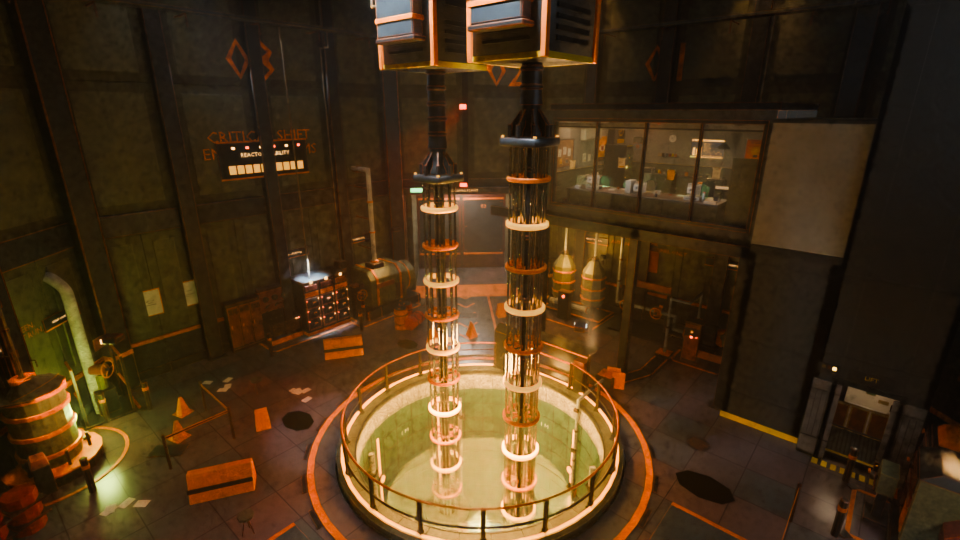
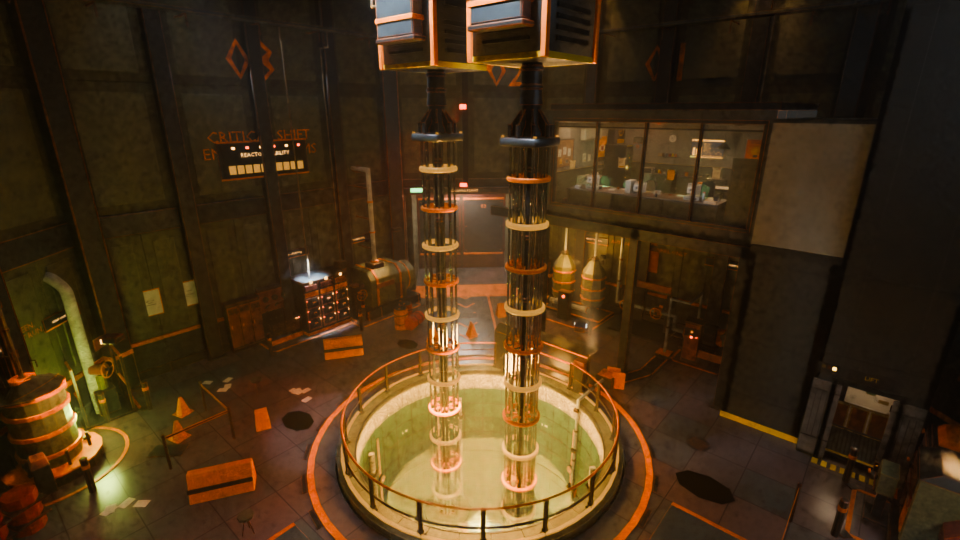
Symmetrical rod banks, all hall drivers in seconds, curved depth markers, glow base colour fix
- rp_rods: bank B rest height and keyframes copied from A (both level); readouts say 8.4 M
- rp_seconds: 40 frame-based hall drivers converted; all 225 drivers frame-rate independent
- rp_pool: state-glow base colour 2 %, curved depth-marker decals, lower glow strengths

Claude-Session: https://claude.ai/code/session_01MZn6W3mktoSNAd4EhQyGwJ

diff --git a/sections/reactor-room/production/overhaul-R1/scripts/rp_pool.py b/sections/reactor-room/production/overhaul-R1/scripts/rp_pool.py
@@ -3,7 +3,7 @@ underwater lamps.   usage: python rp_pool.py -- <in.blend> <out.blend>      (run
  * pool_medium (the volume object 'Deep water medium'): absorption cut from 0.075 to 0.028 and shifted to a clear teal-green, scatter cut to 0.006: the old values made 6 m of opaque green.
  * 'RP caustics': a disc on the pool floor, transparent except for a bright net (two layered 4D Voronoi edge patterns), drifting with scene time in SECONDS (driver on the Voronoi W input).
  * depth markers 1 M / 3 M / 5 M below the surface (surface z -0.47) painted on the lining at the four compass points; eight lamps (emissive bosses) on the lining at z -2.4.
-Glow fix (owner: "blown out green"): with AgX a 3.4 / 2.2 emission strength clips to white, so the strengths in the driver expressions of pool_glow (3.4 -> 1.0) and R2 state glow (2.2 -> 0.7) are lowered
+Glow fix (owner: "blown out green"): with AgX a 3.4 / 2.2 emission strength clips to white, so the strengths in the driver expressions of pool_glow (3.4 -> 1.0) and R2 state glow (2.2 -> 0.45) are lowered
 (instability still raises them by up to 60 %), the water absorption is made near-neutral so red and orange glow is not eaten by a green absorber, the in-scatter and the caustics follow the stability
 colour (green -> orange -> red), and the pool lamps use the state-glow material.  Check all three states: stability 1.0 (green), 0.5 (orange), 0.1 (red).
 Everything is static geometry or a seconds-based driver (the original hall glow drivers still use frames); nothing here needs the runtime."""
@@ -37,12 +37,19 @@ for nd in nt.nodes:
         nd.inputs['Density'].default_value=0.006; nd.name="PoolScatter"
         for i,ex in enumerate(("0.35+0.65*min(1,2*(1-s)+0.24)","0.35+0.65*(0.03+0.92*s)","0.35+0.65*(0.20*s)")): crk.drv(nt,'nodes["PoolScatter"].inputs["Color"].default_value',i,ex,var_s=True)
 # glow strengths: lower the base so AgX does not clip to white
-for mn,old,new in (("pool_glow","3.4*","1.0*"),("R2 state glow","2.2*","0.7*")):
+for mn,old,new in (("pool_glow","3.4*","1.0*"),("R2 state glow","2.2*","0.45*")):
     mt=bpy.data.materials[mn]
     for d in mt.node_tree.animation_data.drivers:
         if "Emission Strength" in d.data_path and old in d.driver.expression: d.driver.expression=d.driver.expression.replace(old,new,1)
     for nd in mt.node_tree.nodes:
         if nd.type=='BSDF_PRINCIPLED': nd.inputs['Emission Strength'].default_value*=new and (float(new[:-1])/float(old[:-1]))
+# state-glow base colour: the driven base colour (the full state colour) was lit by the pool's 2.5 kW of area lights and turned the rings and walls it sits on near-white.  Keep the glow in the EMISSION and give the base colour 2 %.
+for mn in ("pool_glow","R2 state glow"):
+    mt=bpy.data.materials[mn]
+    for d in mt.node_tree.animation_data.drivers:
+        if 'Base Color' in d.data_path and not d.driver.expression.startswith("0.02*("): d.driver.expression="0.02*("+d.driver.expression+")"
+    for nd in mt.node_tree.nodes:
+        if nd.type=='BSDF_PRINCIPLED': bc=nd.inputs['Base Color'].default_value; nd.inputs['Base Color'].default_value=(bc[0]*0.02,bc[1]*0.02,bc[2]*0.02,1.0)
 # ---- caustics: transparent disc with a drifting bright net
 m=bpy.data.materials.get("RP caustics")
 if m: bpy.data.materials.remove(m)
@@ -69,10 +76,18 @@ me=bpy.data.meshes.new("RP caustics"); bm.to_mesh(me); bm.free()
 co=bpy.data.objects.new("RP caustics",me); POOLC.objects.link(co); me.materials.append(m)
 # ---- depth markers + lamps on the lining
 M=dict(WHITE=crk.pm("RP depth paint",(0.70,0.70,0.62),0.5,scale=2.0,bump=0.0),LAMP=bpy.data.materials["R2 state glow"],GUN=crk.pm("RP lamp housing",(0.05,0.06,0.06),0.35,metal=0.8,scale=2.0,bump=0.0))
-R=3.36
-for (face,x,y) in (('-x',R,0.0),('+x',-R,0.0),('-y',0.0,R),('+y',0.0,-R)):
-    for zz,body in ((-1.47,"1 M"),(-3.47,"3 M"),(-5.47,"5 M")):
-        crk.text(POOLC,body,x,y,zz,face,0.22,M["WHITE"],'CENTER',"RP pool depth marker")
+import crt,numpy as np
+R=3.365                                                                           # depth markers: white text printed on curved strips that follow the lining (decal, alpha), so they bend with the wall instead of floating flat in front of it
+for body,zz in (("1 M",-1.47),("3 M",-3.47),("5 M",-5.47)):
+    msk=crt.text_mask(body,256,96,78); rgba=np.zeros((96,256,4),np.float32); rgba[...,:3]=(0.80,0.80,0.72); rgba[...,3]=msk
+    mt=crk.decal_mat("RP depth paint "+body,crk.new_image("RP depth tex "+body,rgba),0.6); bm=bmesh.new(); n=10; hw=0.34/R; hh=0.26
+    for th0 in (0.0,math.pi/2,math.pi,3*math.pi/2):
+        rows=[[bm.verts.new((R*math.cos(th0+hw*(1-2*i/n)),R*math.sin(th0+hw*(1-2*i/n)),zz-hh/2+j*hh)) for i in range(n+1)] for j in (0,1)]
+        uvl=bm.loops.layers.uv.verify()
+        for i in range(n):
+            f=bm.faces.new((rows[0][i],rows[0][i+1],rows[1][i+1],rows[1][i])); f.smooth=False
+            for lo,uv in zip(f.loops,((i/n,0),((i+1)/n,0),((i+1)/n,1),(i/n,1))): lo[uvl].uv=uv
+    me=bpy.data.meshes.new("RP depth "+body); bm.to_mesh(me); bm.free(); ob=bpy.data.objects.new("RP pool depth marker "+body,me); POOLC.objects.link(ob); me.materials.append(mt)
 K=crk.Kit()
 for k in range(8):
     th=k*math.pi/4+math.pi/8; cx,cy=3.34*math.cos(th),3.34*math.sin(th)

diff --git a/sections/reactor-room/production/overhaul-R1/scripts/rp_rods.py b/sections/reactor-room/production/overhaul-R1/scripts/rp_rods.py
@@ -3,7 +3,7 @@ housings (machined housings with corner posts, cooling fins, louvres, access hat
 usage: python rp_rods.py -- <in.blend> <out.blend>      (run after the control-room pipeline; touches only collections 03 POOL AND RAIL and 04 BANK MECHANISMS)
 Contract objects keep their NAMES, parents and pivots: BANK_A_MOVING / BANK_B_MOVING (empties, the runtime moves them), BANK_x_DRIVE_COLUMN, BANK_x_CARRIAGE, BANK_x_FIXED_HOUSING get new
 geometry in place (same bounding box, same materials), so anything bound to them keeps working.  The glowing state bands and state rings keep their driver-fed material (R2 state glow).
-New detail is added as RP objects, parented to the moving empty where it moves.  Nothing here is time-driven; the motion stays with the runtime."""
+New detail is added as RP objects, parented to the moving empty where it moves.  Both banks are identical and level: B's rest height and keyframes are copied from A (they used to be 7.4 vs 8.4 m and out of phase).  Nothing here is time-driven; the motion stays with the runtime."""
 import bpy,sys,os,math,collections
 import numpy as np
 from mathutils import Vector
@@ -11,6 +11,15 @@ sys.path.insert(0,os.path.dirname(os.path.abspath(__file__)))
 import crk
 A=sys.argv[sys.argv.index("--")+1:]; SRC,DST=A[0],A[1]
 bpy.ops.wm.open_mainfile(filepath=SRC)
+def bank_channels(ob):
+    ad=ob.animation_data; act=ad.action if ad else None
+    return [f for l in act.layers for st in l.strips for cb in st.channelbags for f in cb.fcurves] if act else []
+# ---- symmetry: bank B used to rest 1 m lower than A and its demo animation ran out of phase (A 8.4 / B 7.4 m).  Both banks now rest at A's height and share A's keyframes, so they always move together.
+_a=bpy.data.objects["BANK_A_MOVING"]; _b=bpy.data.objects["BANK_B_MOVING"]; _fa=[f for f in bank_channels(_a) if f.data_path=="location" and f.array_index==2]; _fb=[f for f in bank_channels(_b) if f.data_path=="location" and f.array_index==2]
+if _fa and _fb:
+    for ka,kb in zip(_fa[0].keyframe_points,_fb[0].keyframe_points):
+        kb.co[1]=ka.co[1]; kb.handle_left[1]=ka.handle_left[1]; kb.handle_right[1]=ka.handle_right[1]
+_b.location.z=_a.location.z; bpy.context.scene.frame_set(1); bpy.context.view_layer.update()
 def mat(n): return bpy.data.materials[n]
 M=dict(IRON=mat("R2 iron"),ENAM=mat("R2 bank enamel"),TRIM=mat("R2 trim rust"),GLOW=mat("R2 state glow"))
 M["CHROME"]=crk.pm("RP chrome rod",(0.60,0.63,0.64),0.16,metal=1.0,scale=3.0,bump=0.0,var=(0.90,1.04),edge=(0.9,0.92,0.92))
@@ -133,7 +142,7 @@ def bank(tag,x,pz):
     for k in range(8):
         th=k*math.pi/4; K.prism(("rp","BRASS"),(x+0.52*math.cos(th),0.52*math.sin(th),12.69),(x+0.52*math.cos(th),0.52*math.sin(th),12.735),0.03,0.03,6,0.0,True,0.0)
     attach(K.build(BANKC,"RP bank %s housing detail"%tag,M),None)
-bank("A",-1.4,8.4); bank("B",1.4,7.4)
+bank("A",-1.4,_a.location.z); bank("B",1.4,_b.location.z)
 # ---- fuel-assembly lattice on the pool floor (under the water): 8 bundles around the rod tips, caps tinted by the shared state glow
 K=crk.Kit(); zf=-6.18
 for xx in (-2.05,-0.75,0.75,2.05):

diff --git a/sections/reactor-room/production/overhaul-R1/scripts/rp_seconds.py b/sections/reactor-room/production/overhaul-R1/scripts/rp_seconds.py
@@ -1,0 +1,26 @@
+"""Make the hall's remaining frame-based drivers frame-rate independent.   usage: python rp_seconds.py -- <in.blend> <out.blend>   (run last)
+The older hall drivers (state glow, pool glow, beacon pivots, station lamps) were written against the raw `frame` variable (tuned at 30 fps).  Each one is rewritten with the same rule the control
+room uses (crk.to_seconds): `frame` -> (T*30) with T = scene time in seconds, and the scene fps / fps_base are added as driver variables, so the look is unchanged at 30 fps and identical in real time
+at every other frame rate.  Drivers that already use seconds are left alone.  Verify with fps_independence_check.py -- <blend> --prefix ''."""
+import bpy,sys,os,re
+sys.path.insert(0,os.path.dirname(os.path.abspath(__file__)))
+import crk
+A=sys.argv[sys.argv.index("--")+1:]; SRC,DST=A[0],A[1]
+bpy.ops.wm.open_mainfile(filepath=SRC)
+RAW=re.compile(r'\bframe\b(?!\*fb)'); n=0; blocks=[]
+for coll in (bpy.data.objects,bpy.data.lights,bpy.data.cameras,bpy.data.scenes,bpy.data.meshes,bpy.data.curves,bpy.data.shape_keys): blocks+=list(coll)
+for coll in (bpy.data.materials,bpy.data.worlds,bpy.data.node_groups):
+    for i in coll:
+        if getattr(i,'node_tree',None): blocks.append(i.node_tree)
+        elif coll is bpy.data.node_groups: blocks.append(i)
+for ib in blocks:
+    ad=getattr(ib,'animation_data',None)
+    if not ad: continue
+    for fc in ad.drivers:
+        d=fc.driver
+        if d.type=='SCRIPTED' and RAW.search(d.expression):
+            ex=crk.to_seconds(d.expression)
+            if not any(v.name=='fps' for v in d.variables): crk._fps_vars(d)
+            d.expression=ex; n+=1
+print("rp_seconds: drivers converted to seconds:",n)
+bpy.ops.wm.save_as_mainfile(filepath=DST)

diff --git a/sections/reactor-room/production/overhaul-R1/scripts/crt.py b/sections/reactor-room/production/overhaul-R1/scripts/crt.py
@@ -247,7 +247,7 @@ def tv_telemetry(W=384,H=216):
     for x,y in zip(xs,ys): R(x,y-1.2,x+1.2,y+1.2,1.0)
     for x in range(150,W-16,6): R(x,H-22-int(4+10*abs(math.sin(x*0.19))),x+3,H-22,0.62)
     for i in range(7):
-        tm=text_mask(("BANK A   8.4 M   OK","BANK B   7.4 M   OK","COOLANT P-10  RUN","GRID DEMAND   74%","POOL TEMP   NOMINAL","TURBINE  04   SYNC","STABILITY  --")[i],W,H,10,'LEFT',True,1.0,1.0,152,44+i*14); a[...]=np.maximum(a,tm*0.85)
+        tm=text_mask(("BANK A   8.4 M   OK","BANK B   8.4 M   OK","COOLANT P-10  RUN","GRID DEMAND   74%","POOL TEMP   NOMINAL","TURBINE  04   SYNC","STABILITY  --")[i],W,H,10,'LEFT',True,1.0,1.0,152,44+i*14); a[...]=np.maximum(a,tm*0.85)
     return a
 def tv_broadcast(W=384,H=216,seed=5):
     P=PAL; X,Y=XY(W,H); a=canvas(W,H,P["red"]); over(a,np.clip(Y/H,0,1),P["orange"],0.6)

diff --git a/sections/reactor-room/production/overhaul-R1/scripts/cr_build.py b/sections/reactor-room/production/overhaul-R1/scripts/cr_build.py
@@ -40,7 +40,7 @@ import numpy as np
 import cr_desk as D
 if STAGE in("desk","all"):
     D.desk(c)
-    scr=[("SCR1",["KESTREL OS 4.2","","> BANK A   8.4 M   OK","> BANK B   7.4 M   OK","> COOLANT  P-10  RUN","> GRID DEMAND    74 %","> STABILITY","> _"],(0.15,1.0,0.25)),
+    scr=[("SCR1",["KESTREL OS 4.2","","> BANK A   8.4 M   OK","> BANK B   8.4 M   OK","> COOLANT  P-10  RUN","> GRID DEMAND    74 %","> STABILITY","> _"],(0.15,1.0,0.25)),
          ("SCR2",["LOAD SHEDDING PLAN","SECTOR 1 ....... ON","SECTOR 2 ....... ON","SECTOR 3 ....... ON","SECTOR 4 ...... OFF","","READY_"],(1.0,0.55,0.08)),
          ("SCR3",["SHIFT LOG  04","22:41  ROUTINE","23:10  ROUTINE","00:02  NOTHING","       UNUSUAL","> _"],(0.15,1.0,0.25))]
     for k,(nm,lines,col) in enumerate(scr):

diff --git a/sections/reactor-room/production/overhaul-R1/README.md b/sections/reactor-room/production/overhaul-R1/README.md
@@ -252,7 +252,7 @@ The hall-side window glass is now fully clear (`CR window glass clear`: alpha 0.
 Run after the control-room pipeline (`rp_rods.py -- in.blend out.blend`); it touches only collections `03 POOL AND RAIL` and `04 BANK MECHANISMS`. Both banks are rebuilt to the same radially symmetric design after the owner's reference photo of a real rod-cluster control assembly (handle, spider hub with radial vanes, cage of thin pins, spacer grids, end plate). Contract objects keep their names, parents and pivots (`BANK_A/B_MOVING` empties, `BANK_x_DRIVE_COLUMN`, `BANK_x_CARRIAGE`, `BANK_x_FIXED_HOUSING`, plus the old stem, guide shoe, tip and band objects): they receive new geometry in place with their materials, and every new moving part is parented to the `MOVING` empty (checked: moving the pivot carries it).
 - **Moving assembly (each bank):** ribbed handle, spider hub with 8 vanes and vane-tip posts, square top plate, a central drive tube, 16 polished absorber pins on two rings (r 0.28 and 0.40) with glowing tips, egg-crate spacer grids (outer frame plus 8 spokes) at the old band heights, glowing grid rings between them, end plate and nose. The glow uses the existing stability-driven `R2 state glow`, so it turns amber and red with the reactor state like the state rings.
 - **Fixed housings:** four identical sides (cooling fins above and below an instrument panel with three glowing lamps and a brass gauge; the front side keeps its face plate and bank letter), corner posts, roof crown with bolt ring, four corner cable glands with cables to the gantry, hazard skirt strips.
-- **Heights differ by design:** bank A rests at 8.4 m and B at 7.4 m (the control-room readouts and the `b3.py` keyframes say so); only the geometry is identical.
+- **Banks are level and symmetrical (owner request):** B used to rest 1 m below A (7.4 vs 8.4 m) and its demo keyframes ran out of phase. `rp_rods.py` now copies A's rest height and keyframes to B, so both always move together (8.4 / 7.2 / 8.2 / 7.0 / 8.4 m over 480 frames); the control-room telemetry readouts say `BANK B 8.4 M` (`cr_build.py`, `crt.py`).
 - **Pool floor:** eight fuel bundles around the rod tips; they sit under the opaque water, so they are only seen if the water is made clearer.
 - **Numbers:** collections 03 + 04 went from 71.6k to 106.1k triangles (+34.5k, mostly the spacer grids and pins); `cr_verify`, `verify_piping`, `clearance` and `fps_independence_check` pass. Not engine-measured; no collision or LOD work; the water, pool lining, guardrail and gantry are unchanged.
 - Renders: `pool_rods_hero.png`, `pool_rods_spider.png`, `pool_rods_cage.png`, `pool_rods_housing.png`.
@@ -264,5 +264,9 @@ Run after `rp_rods.py` (`rp_pool.py -- in.blend out.blend`). Owner feedback: the
 - **Clipping:** under AgX the emission strengths clipped to white, so the strength inside the driver expressions is lowered: `pool_glow` 3.4 -> 1.0 and `R2 state glow` 2.2 -> 0.7 (instability still raises them by up to 60 %). This also dims every other state-glow surface (rod rings, pool rim glow strips, board indicators); that was intended but is a global change.
 - **Added:** `RP caustics` floor disc (net of light that drifts with scene time in seconds, tinted by the stability colour), depth markers "1 M / 3 M / 5 M" on the lining, eight lamps on the lining using the state-glow material.
 - Verified: `cr_verify`, `verify_piping`, `clearance`, `fps_independence_check` pass.
-- Still not perfect: some rings read near-white in close views, the original hall glow drivers still use frames not seconds, markers are flat text on a curved wall, the caustics are a fake overlay.
+- **Base colour of the state-glow materials is now 2 % of the state colour** (was the full colour): the pool lights (2.5 kW) lit the rings and walls it sits on to near-white; the glow is carried by the emission only.
+- **Depth markers** are alpha decals on curved strips that follow the lining (no more flat text floating in front of a curved wall).
+- **Frame-rate independence for the whole hall:** `scripts/rp_seconds.py` (run last) rewrites the 40 remaining raw-`frame` drivers (state glow, pool glow, beacon pivots, station lamps) with `crk.to_seconds`; `fps_independence_check.py -- <blend> --prefix ''` now passes for all 225 drivers in the scene at 24 / 30 / 60 / 144 / 480 fps.
+- **Pipeline order:** `cr_build` -> `cr_optimize` -> `cr_atlas_decals` -> `cr_families` -> `cr_rt_lights` -> `rp_rods` -> `rp_pool` -> `rp_seconds`.
+- Still not perfect: in close views the lit spacer frames still read pale (the pool lights are very strong at that distance), and the water looks washed at stability 0.5; the caustics are a deliberate real-time-style overlay (a drifting net on a floor disc), not path-traced refraction, which a game would not do.
 - Renders: `pool_glow_s100|s050|s010_hero.png` and `_angle.png`.
